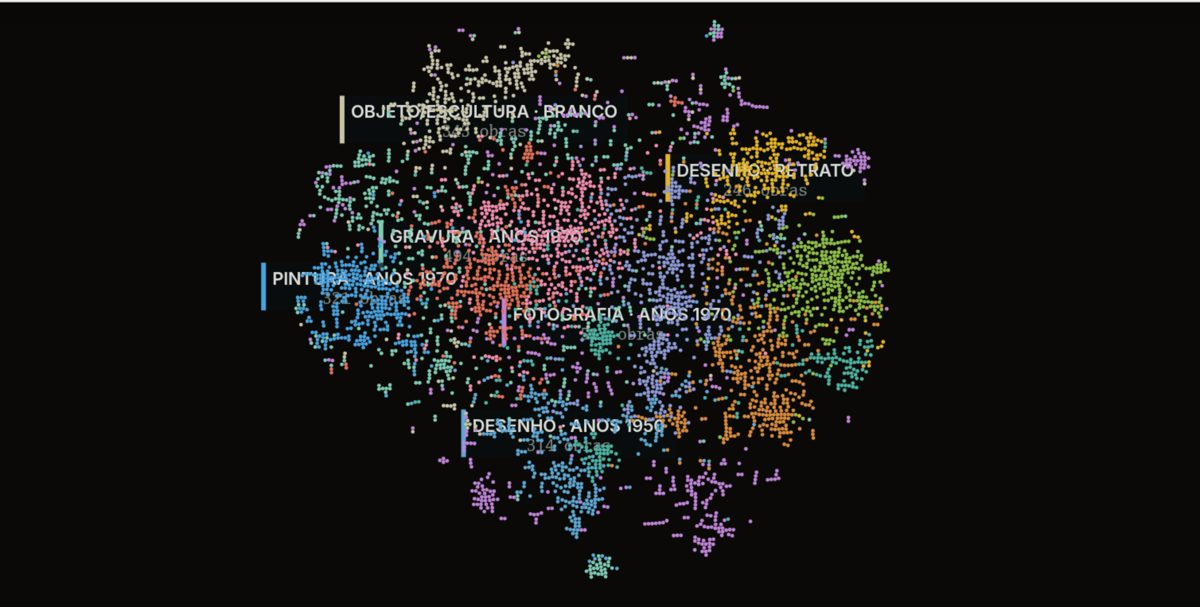
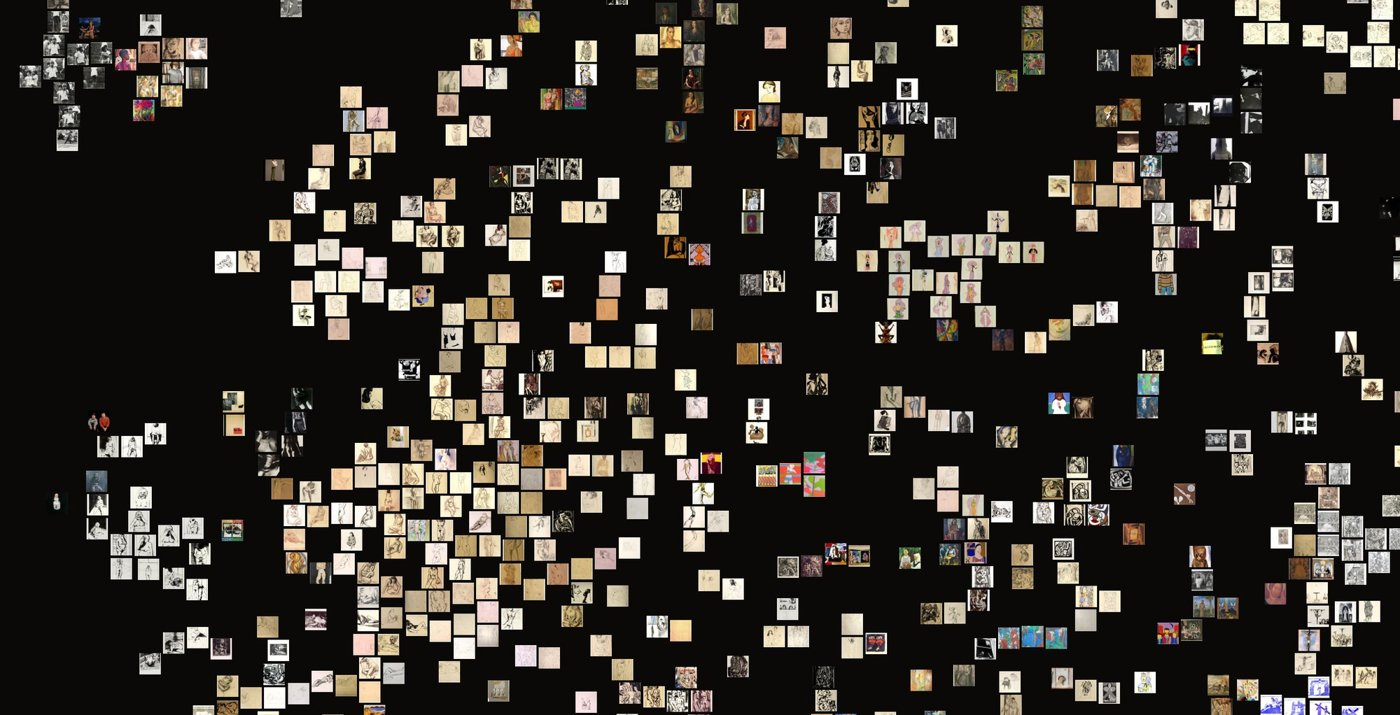
Profile: use the zoomed DINOv3 map with artwork thumbnails

diff --git a/README.md b/README.md
@@ -17,7 +17,8 @@ A prototype museum website where thousands of artworks are laid out by visual
 similarity (**DINOv3** embeddings), with search by image, colour palettes and
 historical bulletins transcribed with OCR.
 
-![MAC USP collection map](assets/mac-mapa.jpg)
+![Zoomed-in view of the MAC USP map: drawings of the human figure grouped by DINOv3 visual similarity](assets/mac-mapa.jpg)
+<sub>Zoomed into the map: drawings of the human figure that DINOv3 placed next to each other.</sub>
 
 #### Human validation of model tags
 [live site](https://danmartsarr.github.io/validacao-tags-mac/) · [repo](https://github.com/danmartsarr/validacao-tags-mac)
